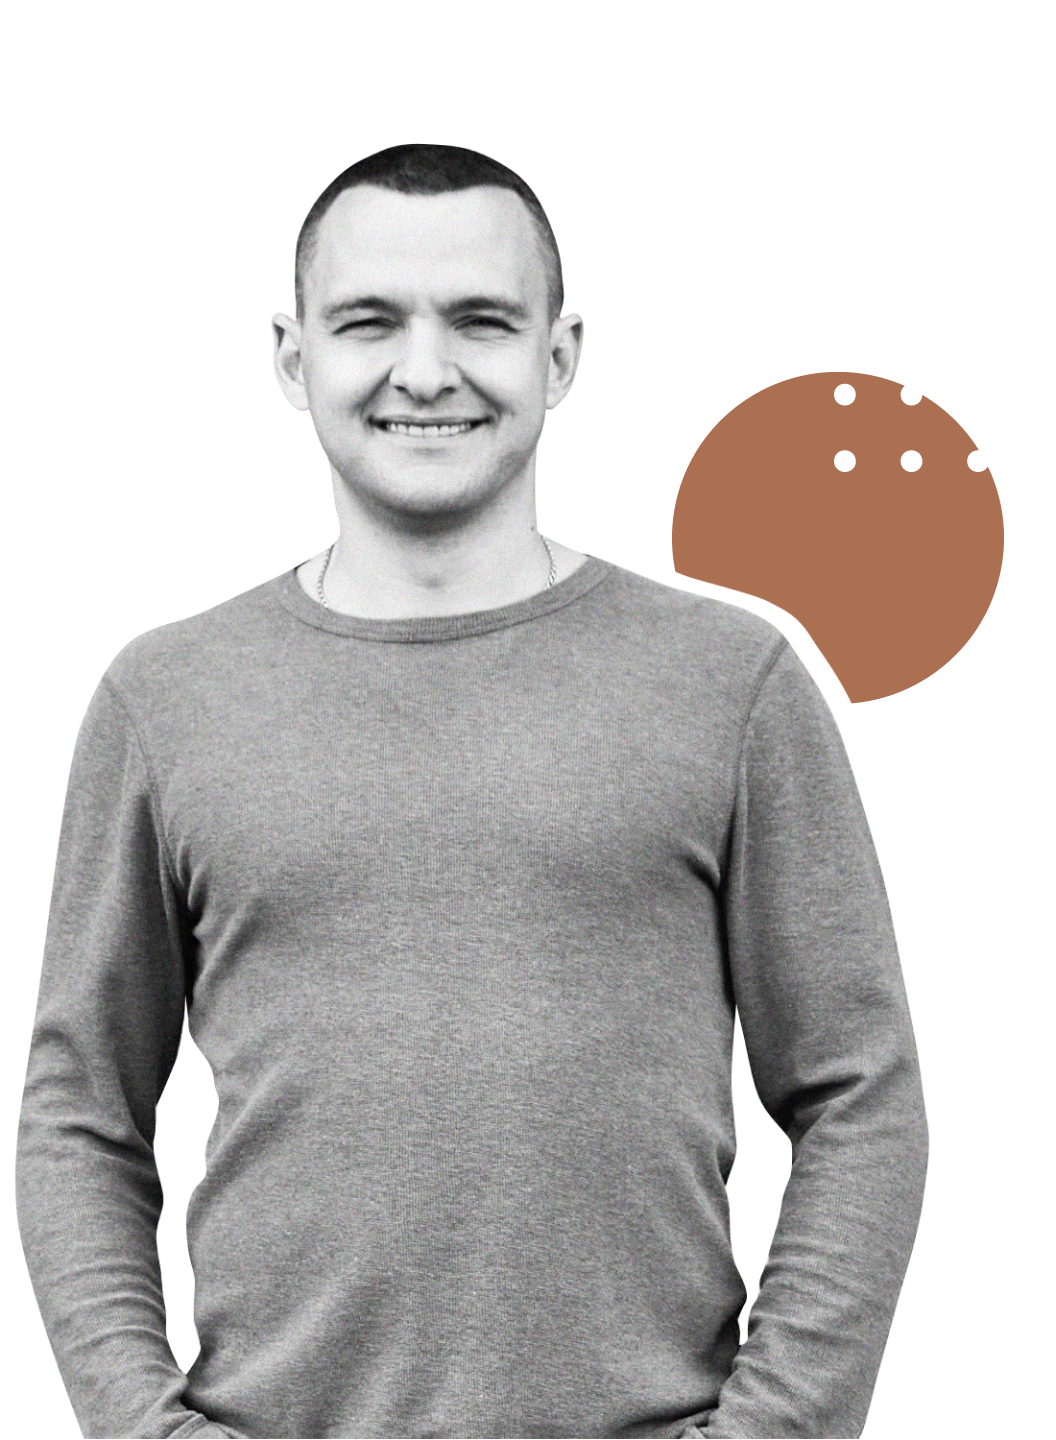
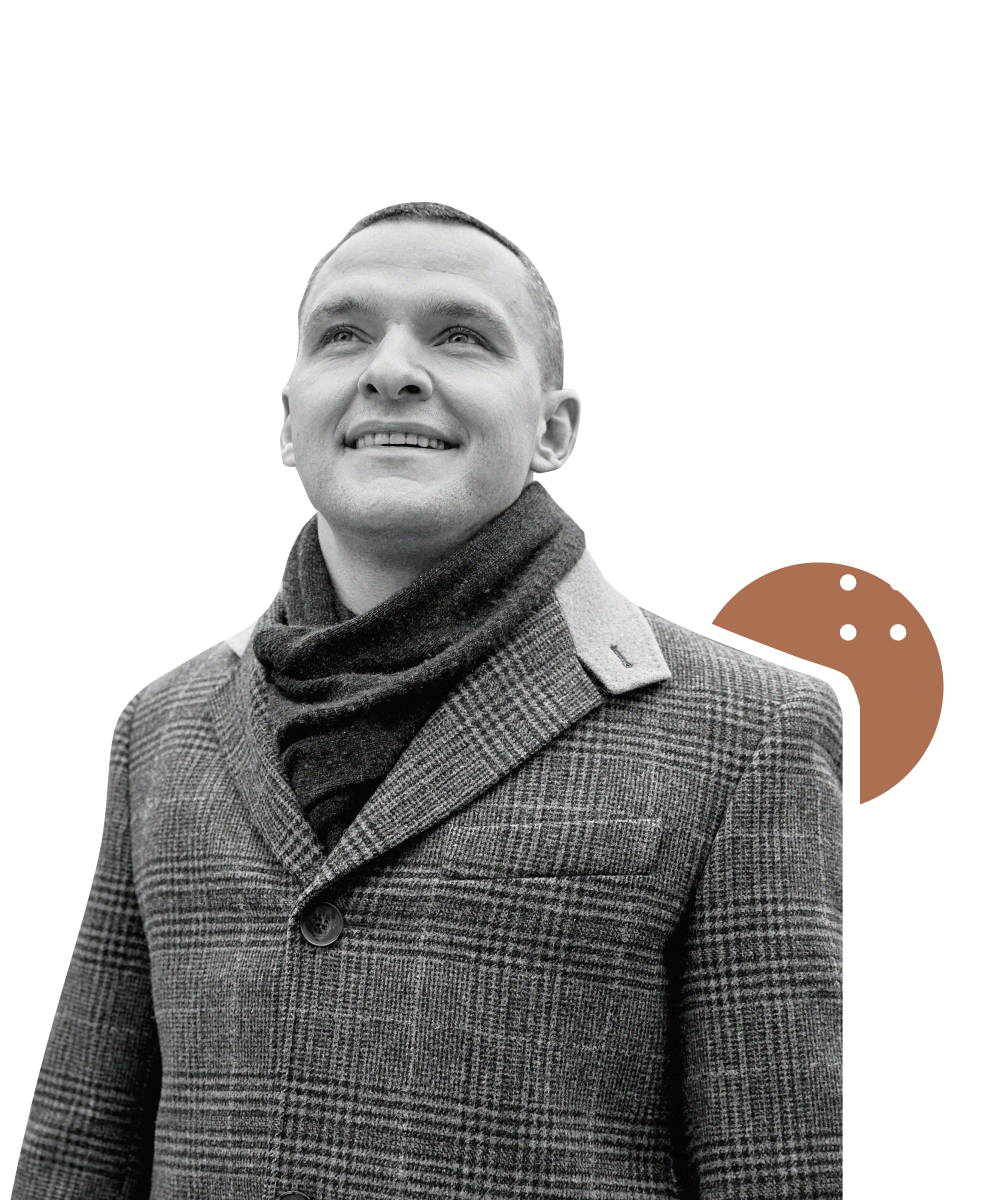
Added new image and deleted unused folder

diff --git a/scss/style.scss b/scss/style.scss
@@ -401,10 +401,10 @@ button:focus {
         margin-bottom: 38px;
     }
     &__img {
-        width: 570px;
+        width: 670px;
         position: absolute;
         right: -130px;
-        bottom: -10px;
+        bottom: 0px;
         img {
             display: block;
             width: 100%;
@@ -832,7 +832,7 @@ button:focus {
 @media (max-width: 1112px) {
     .intro {
         &__img {
-            width: 545px;
+            width: 600px;
         }
     }
     .program {
@@ -866,7 +866,7 @@ button:focus {
 @media (max-width: 1040px) {
     .intro {
         &__img {
-            width: 500px;
+            width: 570px;
         }
     }
     .list {
@@ -923,9 +923,6 @@ button:focus {
             flex-direction: column-reverse;
             margin-top: 30px;
             align-items: flex-start;
-        }
-        &__img {
-            width: 480px;
         }
     }
     .for {
@@ -998,11 +995,6 @@ button:focus {
             width: auto;
         }
     }
-    .intro {
-        &__img {
-            width: 500px;
-        }
-    }
     .about {
         &__inner {
             &--item {
@@ -1043,11 +1035,6 @@ button:focus {
     }
 }
 @media (max-width: 768px) {
-    .intro {
-        &__img {
-            width: 460px;
-        }
-    }
     .course {
         &__img {
             width: 650px;
@@ -1097,6 +1084,7 @@ button:focus {
         }
         &__img {
             z-index: -2;
+            width: 500px;
         }
     }
     .about {
@@ -1260,8 +1248,7 @@ button:focus {
     }
     .intro {
         &__img {
-            width: 340px;
-            right: -85px;
+            width: 420px;
         }
         &__inner {
             padding: 20px 0 80px 0;
@@ -1387,6 +1374,11 @@ button:focus {
             line-height: 16px;
         }
     }
+    .intro {
+        &__img {
+            width: 385px;
+        }
+    }
     .about {
         &__inner {
             &--item {
@@ -1465,9 +1457,6 @@ button:focus {
         }
         &__block {
             margin-top: 15px;
-        }
-        &__img {
-            bottom: -80px;
         }
         &__time {
             &--m {

diff --git a/css/style.css b/css/style.css
@@ -397,10 +397,10 @@ button:focus {
   margin-bottom: 38px;
 }
 .intro__img {
-  width: 570px;
+  width: 670px;
   position: absolute;
   right: -130px;
-  bottom: -10px;
+  bottom: 0px;
 }
 .intro__img img {
   display: block;
@@ -814,7 +814,7 @@ button:focus {
 }
 @media (max-width: 1112px) {
   .intro__img {
-    width: 545px;
+    width: 600px;
   }
 
   .program__inner--item {
@@ -836,7 +836,7 @@ button:focus {
 }
 @media (max-width: 1040px) {
   .intro__img {
-    width: 500px;
+    width: 570px;
   }
 
   .list__for {
@@ -888,9 +888,6 @@ button:focus {
     flex-direction: column-reverse;
     margin-top: 30px;
     align-items: flex-start;
-  }
-  .intro__img {
-    width: 480px;
   }
 
   .for__block {
@@ -957,10 +954,6 @@ button:focus {
     width: auto;
   }
 
-  .intro__img {
-    width: 500px;
-  }
-
   .about__inner--item {
     width: 30%;
   }
@@ -993,10 +986,6 @@ button:focus {
   }
 }
 @media (max-width: 768px) {
-  .intro__img {
-    width: 460px;
-  }
-
   .course__img {
     width: 650px;
   }
@@ -1037,6 +1026,7 @@ button:focus {
   }
   .intro__img {
     z-index: -2;
+    width: 500px;
   }
 
   .about__block--item {
@@ -1186,8 +1176,7 @@ button:focus {
   }
 
   .intro__img {
-    width: 340px;
-    right: -85px;
+    width: 420px;
   }
   .intro__inner {
     padding: 20px 0 80px 0;
@@ -1309,6 +1298,10 @@ button:focus {
     line-height: 16px;
   }
 
+  .intro__img {
+    width: 385px;
+  }
+
   .about__inner--item {
     padding: 10px;
   }
@@ -1374,9 +1367,6 @@ button:focus {
   }
   .intro__block {
     margin-top: 15px;
-  }
-  .intro__img {
-    bottom: -80px;
   }
   .intro__time--m {
     display: flex;
